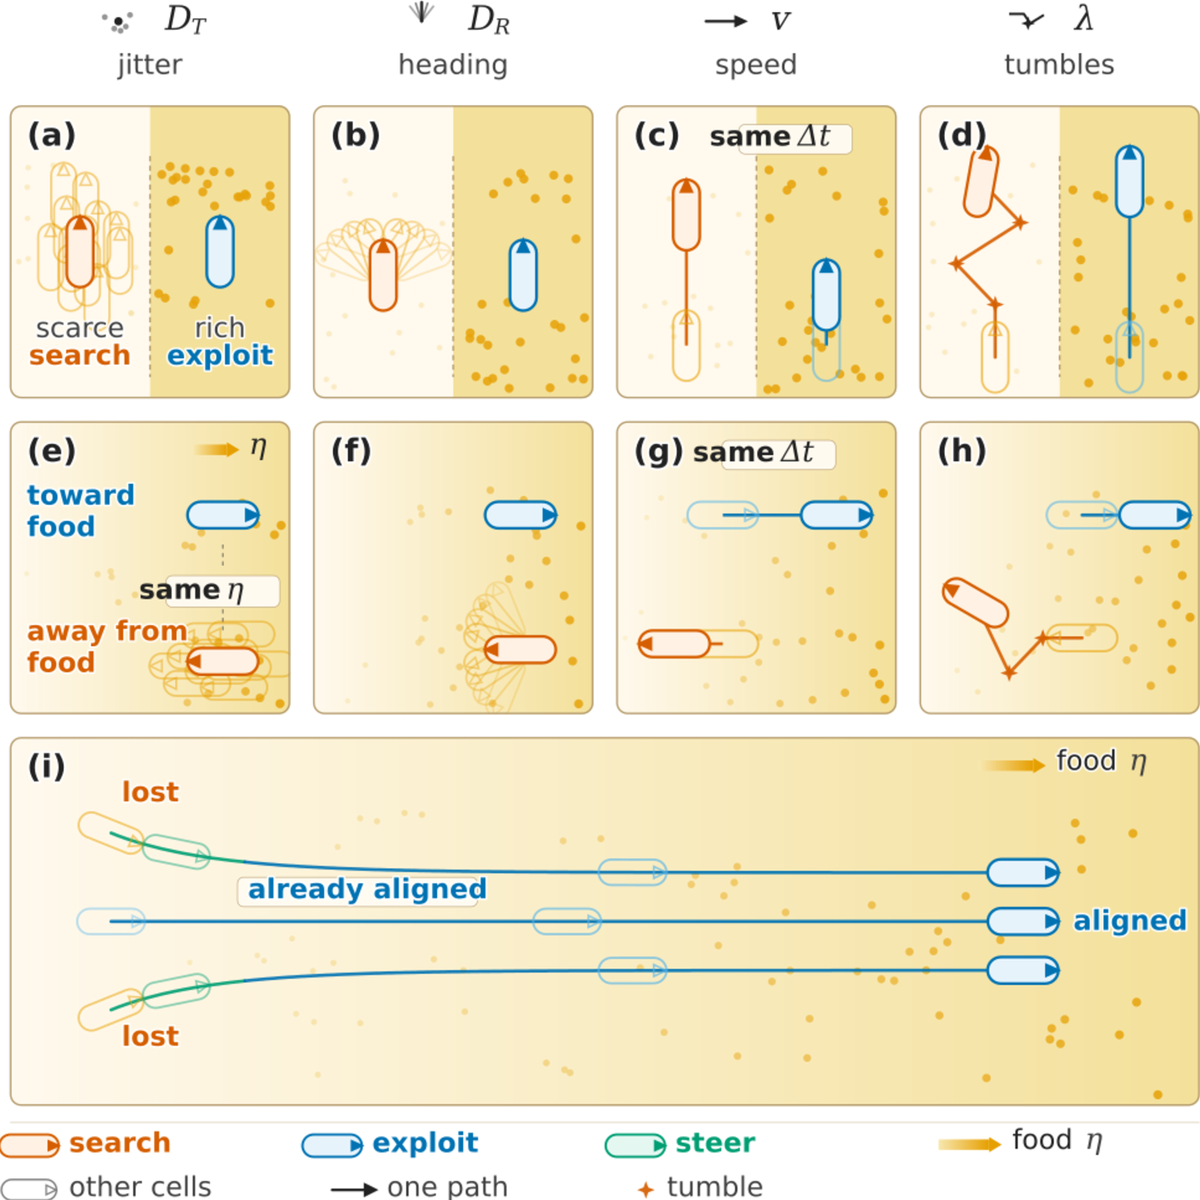
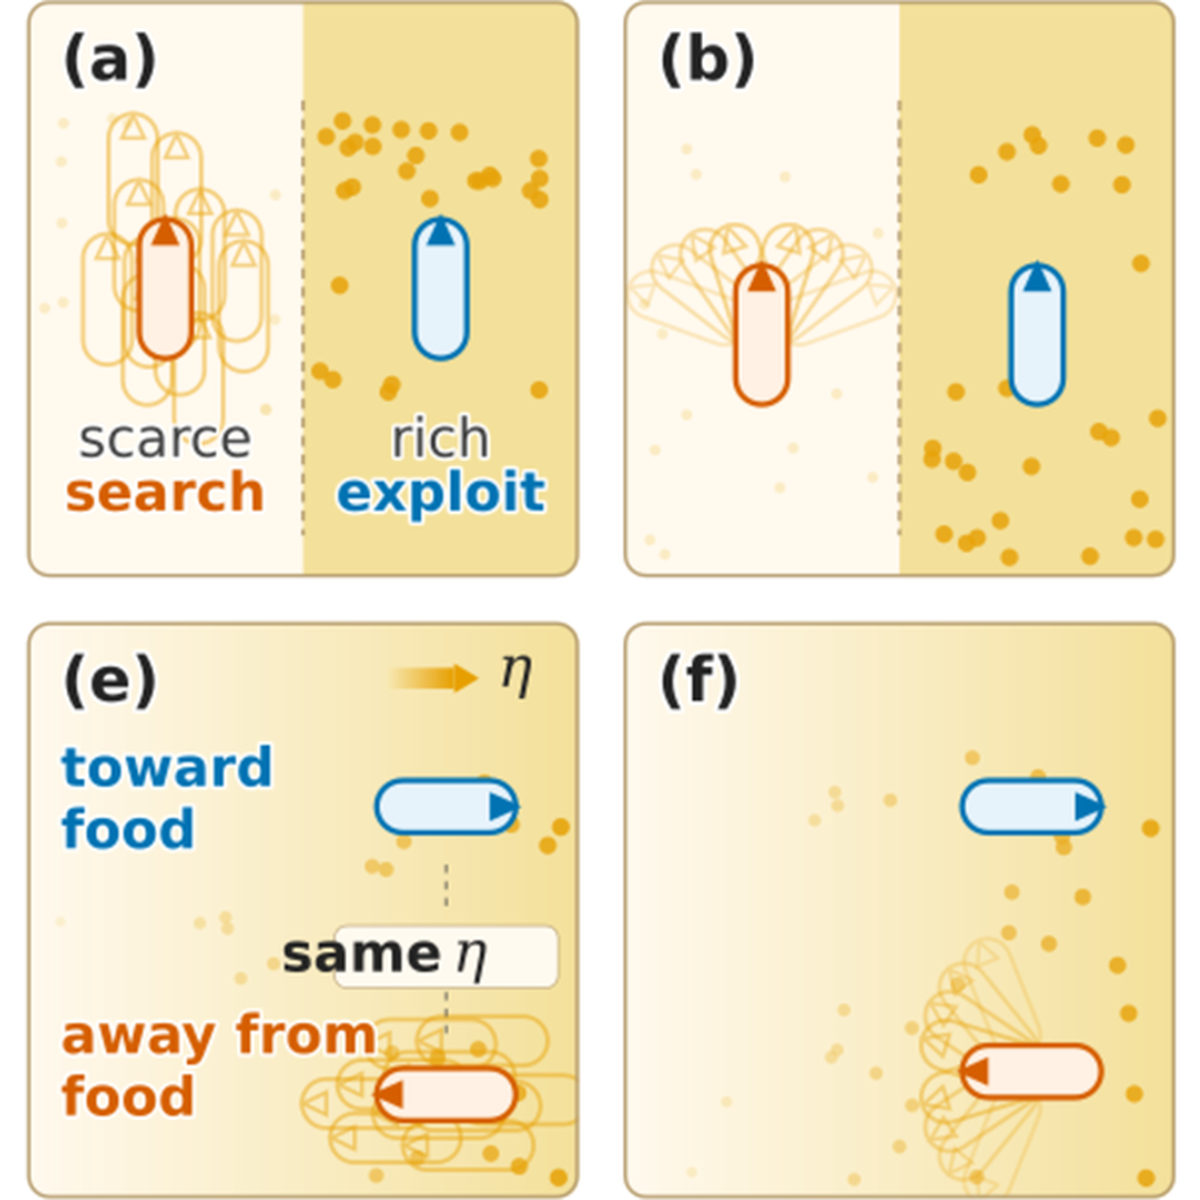
Show only the jitter and heading panels, and draw the research figures smaller.

diff --git a/_pages/research.md b/_pages/research.md
@@ -10,9 +10,21 @@ nav_order: 2
 <section class="research-group" id="mechanics">
   <h2>Mechanics of form</h2>
   <div class="research-copy">
-    <p>How does a cell's material structure determine its shape?</p>
-    <p>I use continuum mechanics to connect forces within epithelial cells to their deformation and to the energy used in models of tissues.</p>
-    <p>Our <a href="https://arxiv.org/abs/2501.17810">2025 preprint</a> studies how cell outlines change along the apical–basal axis using a three-dimensional shell model.</p>
+    <p>How does a cell's internal structure determine the shape of the tissue it belongs to?</p>
+    <p>
+      Epithelial sheets — the thin walls that line organs and embryos — are built from cells packed together like tiles.
+      The standard physics model treats each cell as a polygon and assigns an energy penalty based on the length of its outline.
+      That penalty works surprisingly well, but it is put in by hand, and it has nothing to say about why cells look different at their top than at their base.
+    </p>
+    <p>
+      My approach is to start one level deeper: to ask what the cell's own mechanical structure — its liquid-like interior and its stiffer outer cortex — implies for the energy of deformation.
+      Using continuum mechanics, I derive that energy from first principles rather than assuming it.
+      This gives tissue models a firmer physical foundation and, for the first time, a way to predict how cell shape changes along the height of the cell.
+    </p>
+    <p>
+      Our <a href="https://arxiv.org/abs/2501.17810">2025 preprint</a> develops a three-dimensional continuum shell model that captures basal mechanical coupling and matches experimental observations in epithelial cells.
+      In a companion manuscript (in preparation), we treat the cell as a bonded disk-ring composite and derive exactly what energy exponent the perimeter term should have — validating the spirit of standard vertex models while providing, for the first time, a rigorous mechanical derivation of the perimeter energy term.
+    </p>
   </div>
   <figure class="research-lesson">
     <img
@@ -27,11 +39,30 @@ nav_order: 2
 <section class="research-group" id="collective">
   <h2>Collective behavior</h2>
   <div class="research-copy">
-    <p>Some bacteria assemble into groups while they are still dilute.</p>
-    <p>I study how a shared liquid film can draw cells together and how that attraction changes within a crowd.</p>
-    <p>I also ask what a population's position and shape can reveal about the ways individual cells search for resources.</p>
-    <p>Fluctuations in birth, death, and motion can end a population even when its average density appears stable.</p>
-    <p>I examine how space changes the path to that rare event.</p>
+    <p>What draws individual cells together into groups, and how does a population search for food — or survive long enough to find it?</p>
+    <p>
+      These are three separate questions, and I am working on each of them.
+    </p>
+    <p>
+      <strong>Assembly.</strong>
+      Some bacteria form tight clusters long before they are densely packed — something that ordinary crowding theories cannot explain.
+      Working with collaborators from the Universitat de Barcelona and the Max Planck Institute, I found that the thin film of liquid covering the bacteria creates attractive capillary forces between neighbors.
+      Inside a crowd, those forces are not the same as between an isolated pair: the crowd <em>screens</em> the long-range attraction, in a way that is mathematically analogous to how charge screening works in electromagnetism.
+      A kinetic theory closure turns this microscopic picture into a continuum hydrodynamic framework, providing a route to predict collective phase boundaries directly from the underlying physics (in preparation).
+    </p>
+    <p>
+      <strong>Foraging.</strong>
+      A single bacterium is too noisy to track reliably; measuring many individuals at once is slow.
+      But the colony as a whole has already averaged over thousands of individuals.
+      In analytical work with Naama Brenner and Ahmed El Hady, I show that the population-level pattern carries two distinct timescales: cells maximize local nutrient intake well before the colony as a whole settles into its global distribution.
+      This separation lets us infer individual search strategies from coarser population-level observations (in preparation).
+    </p>
+    <p>
+      <strong>Persistence.</strong>
+      A population sitting at a comfortable density can still be wiped out by a single large fluctuation — not by a slow average decline, but by a rare event.
+      I apply large-deviation theory to study how spatial structure changes the likelihood and the path of such rare events.
+      The simple one-dimensional case is in hand; the same question in higher dimensions remains open.
+    </p>
   </div>
   <figure class="research-lesson">
     <img
@@ -46,14 +77,23 @@ nav_order: 2
 <section class="research-group" id="information">
   <h2>Information</h2>
   <div class="research-copy">
-    <p>How can a code become robust to errors while the code itself evolves?</p>
-    <p>I study small models in which sequences and their code change together, with selection acting on what they express.</p>
+    <p>How can a code become more robust to errors while the code itself is still free to change?</p>
+    <p>
+      The genetic code is redundant — multiple triplets of nucleotides map to the same amino acid — and that redundancy buffers mistakes during protein synthesis.
+      Standard theoretical accounts either hold the code fixed while genes evolve, or they score codes using information-theoretic measures that have no direct connection to whether an organism leaves descendants.
+    </p>
+    <p>
+      I study small models in which the code and the sequences it encodes change together, and selection acts only on what the sequence expresses — nothing more.
+      Even so, codes that buffer translation errors turn out to be the ones that survive.
+      This is a proof of mechanism, not a finished theory of the biological genetic code;
+      it is a check that natural selection alone, without any hand-tuned fitness function, can push a code toward robustness.
+    </p>
     <p class="research-note">This work uses toy alphabets rather than the full biological genetic code.</p>
   </div>
   <figure class="research-lesson">
     <img
       src="{{ '/assets/img/figures/information-foraging.png' | relative_url }}"
-      alt="Foraging responses. A cell searches when food is scarce and exploits when food is rich, by changing its jitter, heading, speed, or tumbles."
+      alt="Jitter and heading responses. The cell searches when food is scarce, exploits when food is rich, and turns toward or away from food."
       width="1200"
       height="1200"
     >
